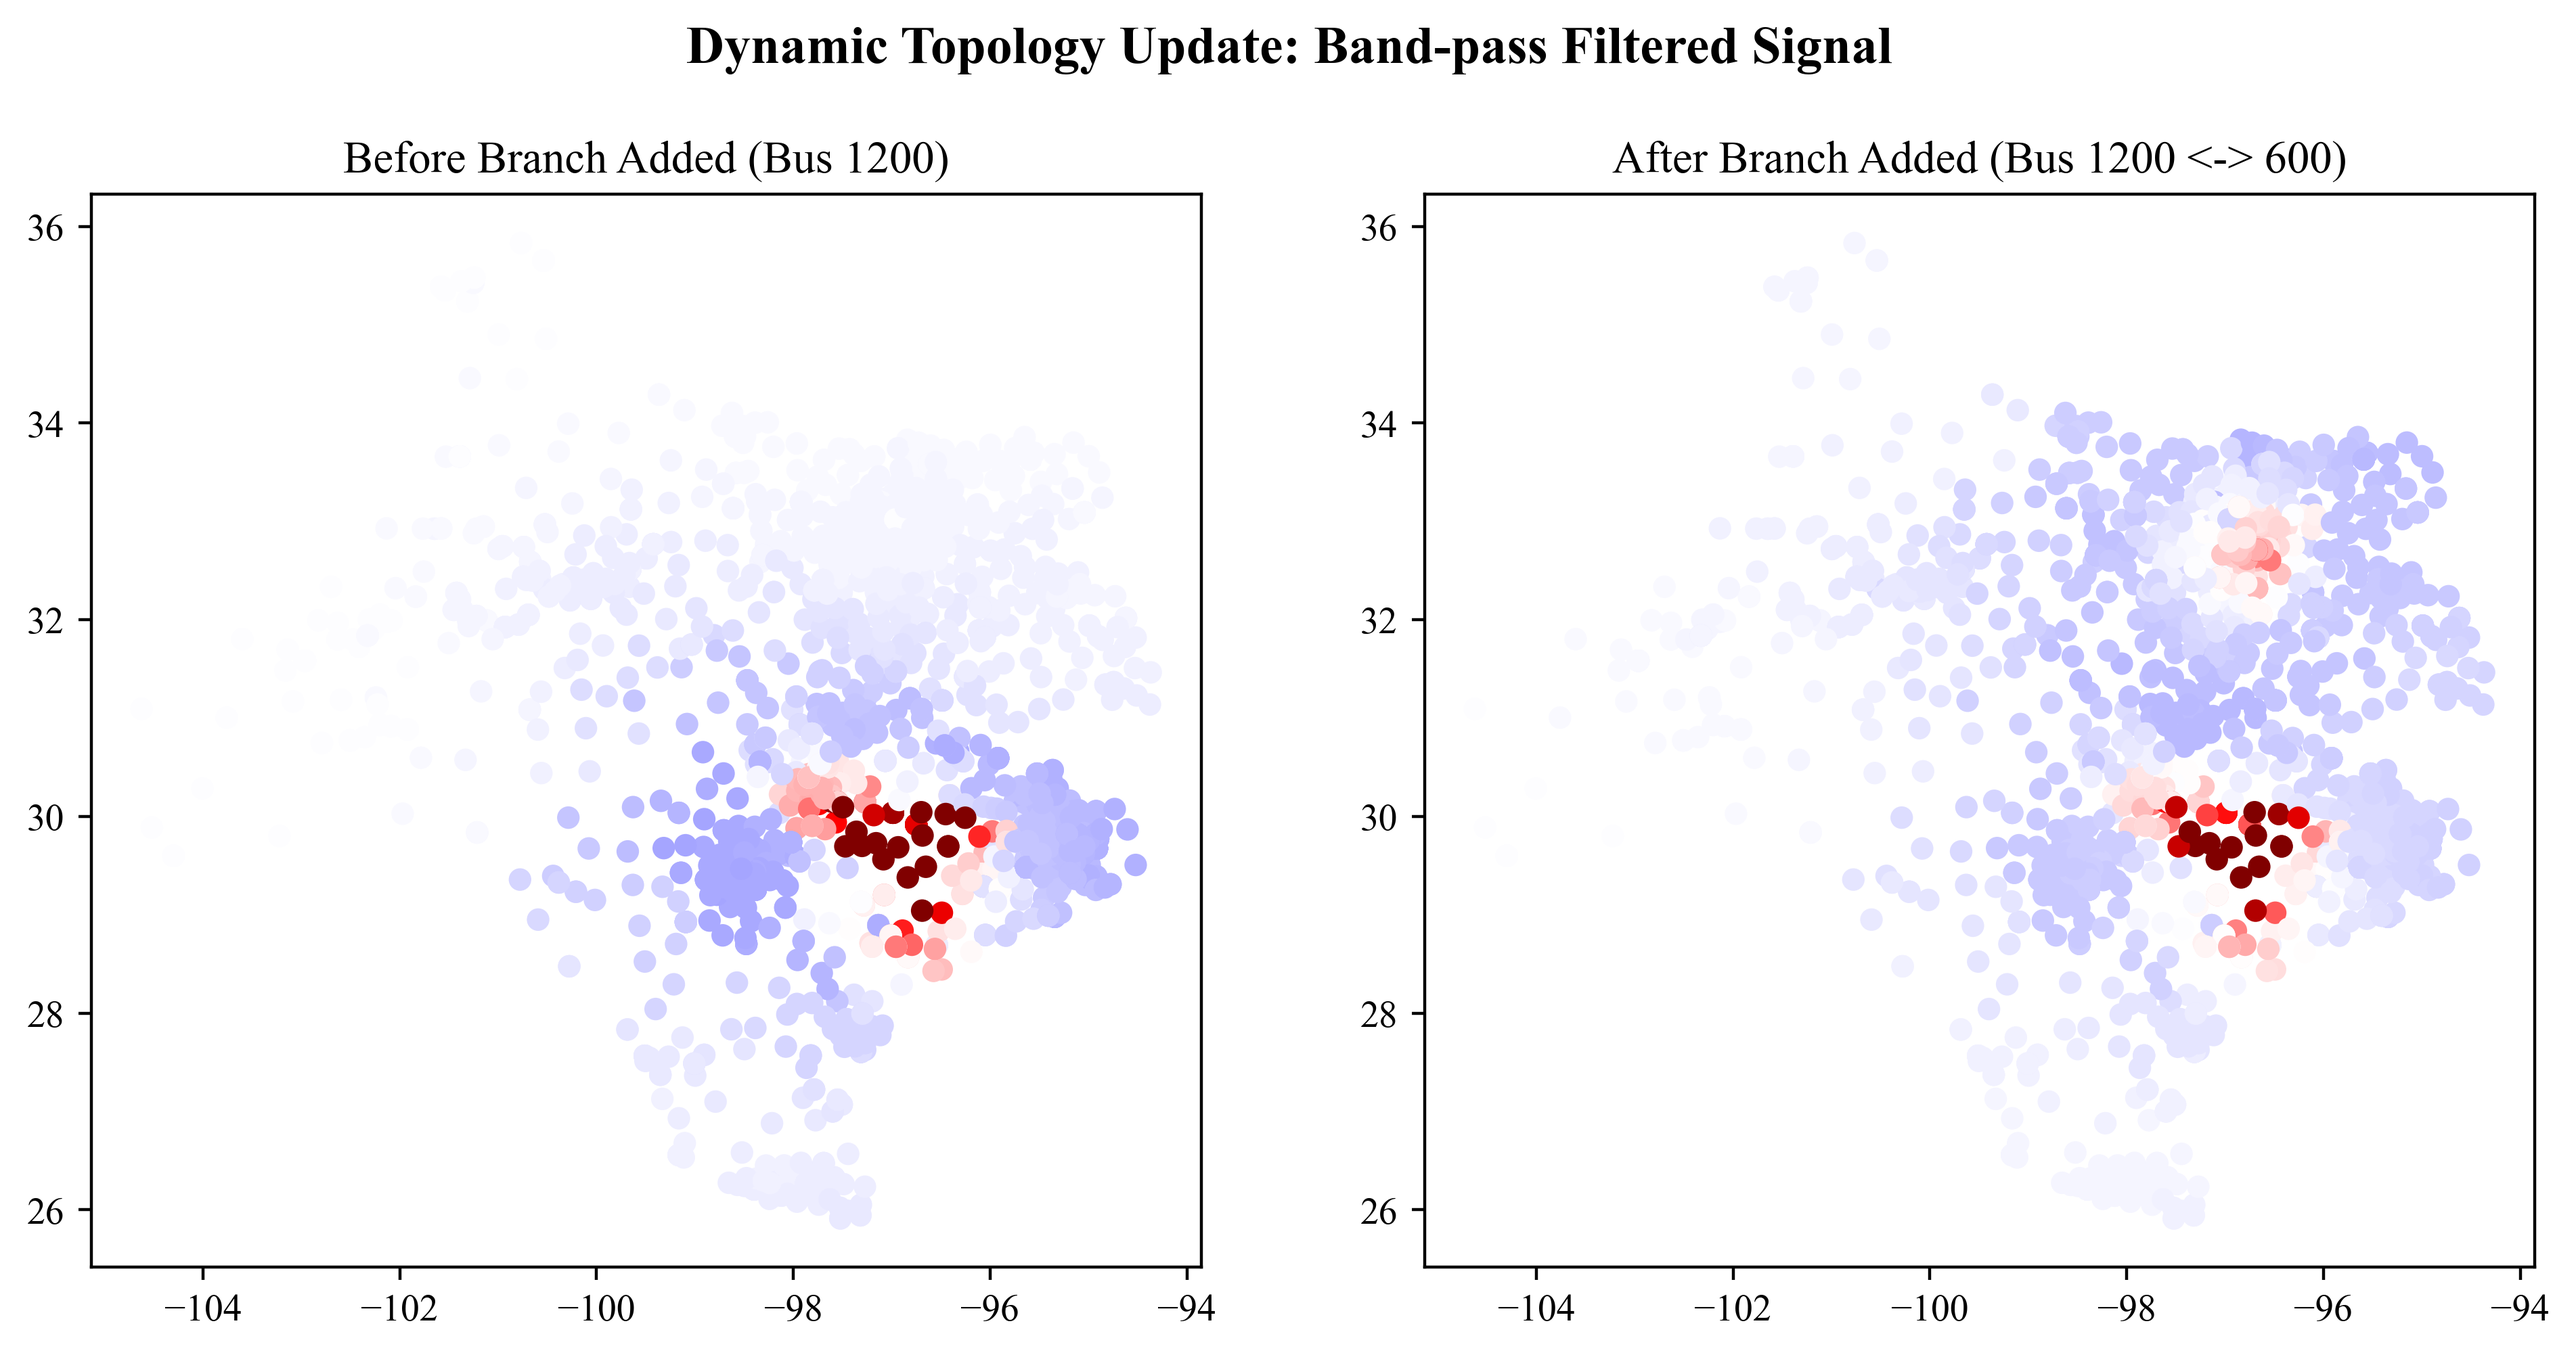
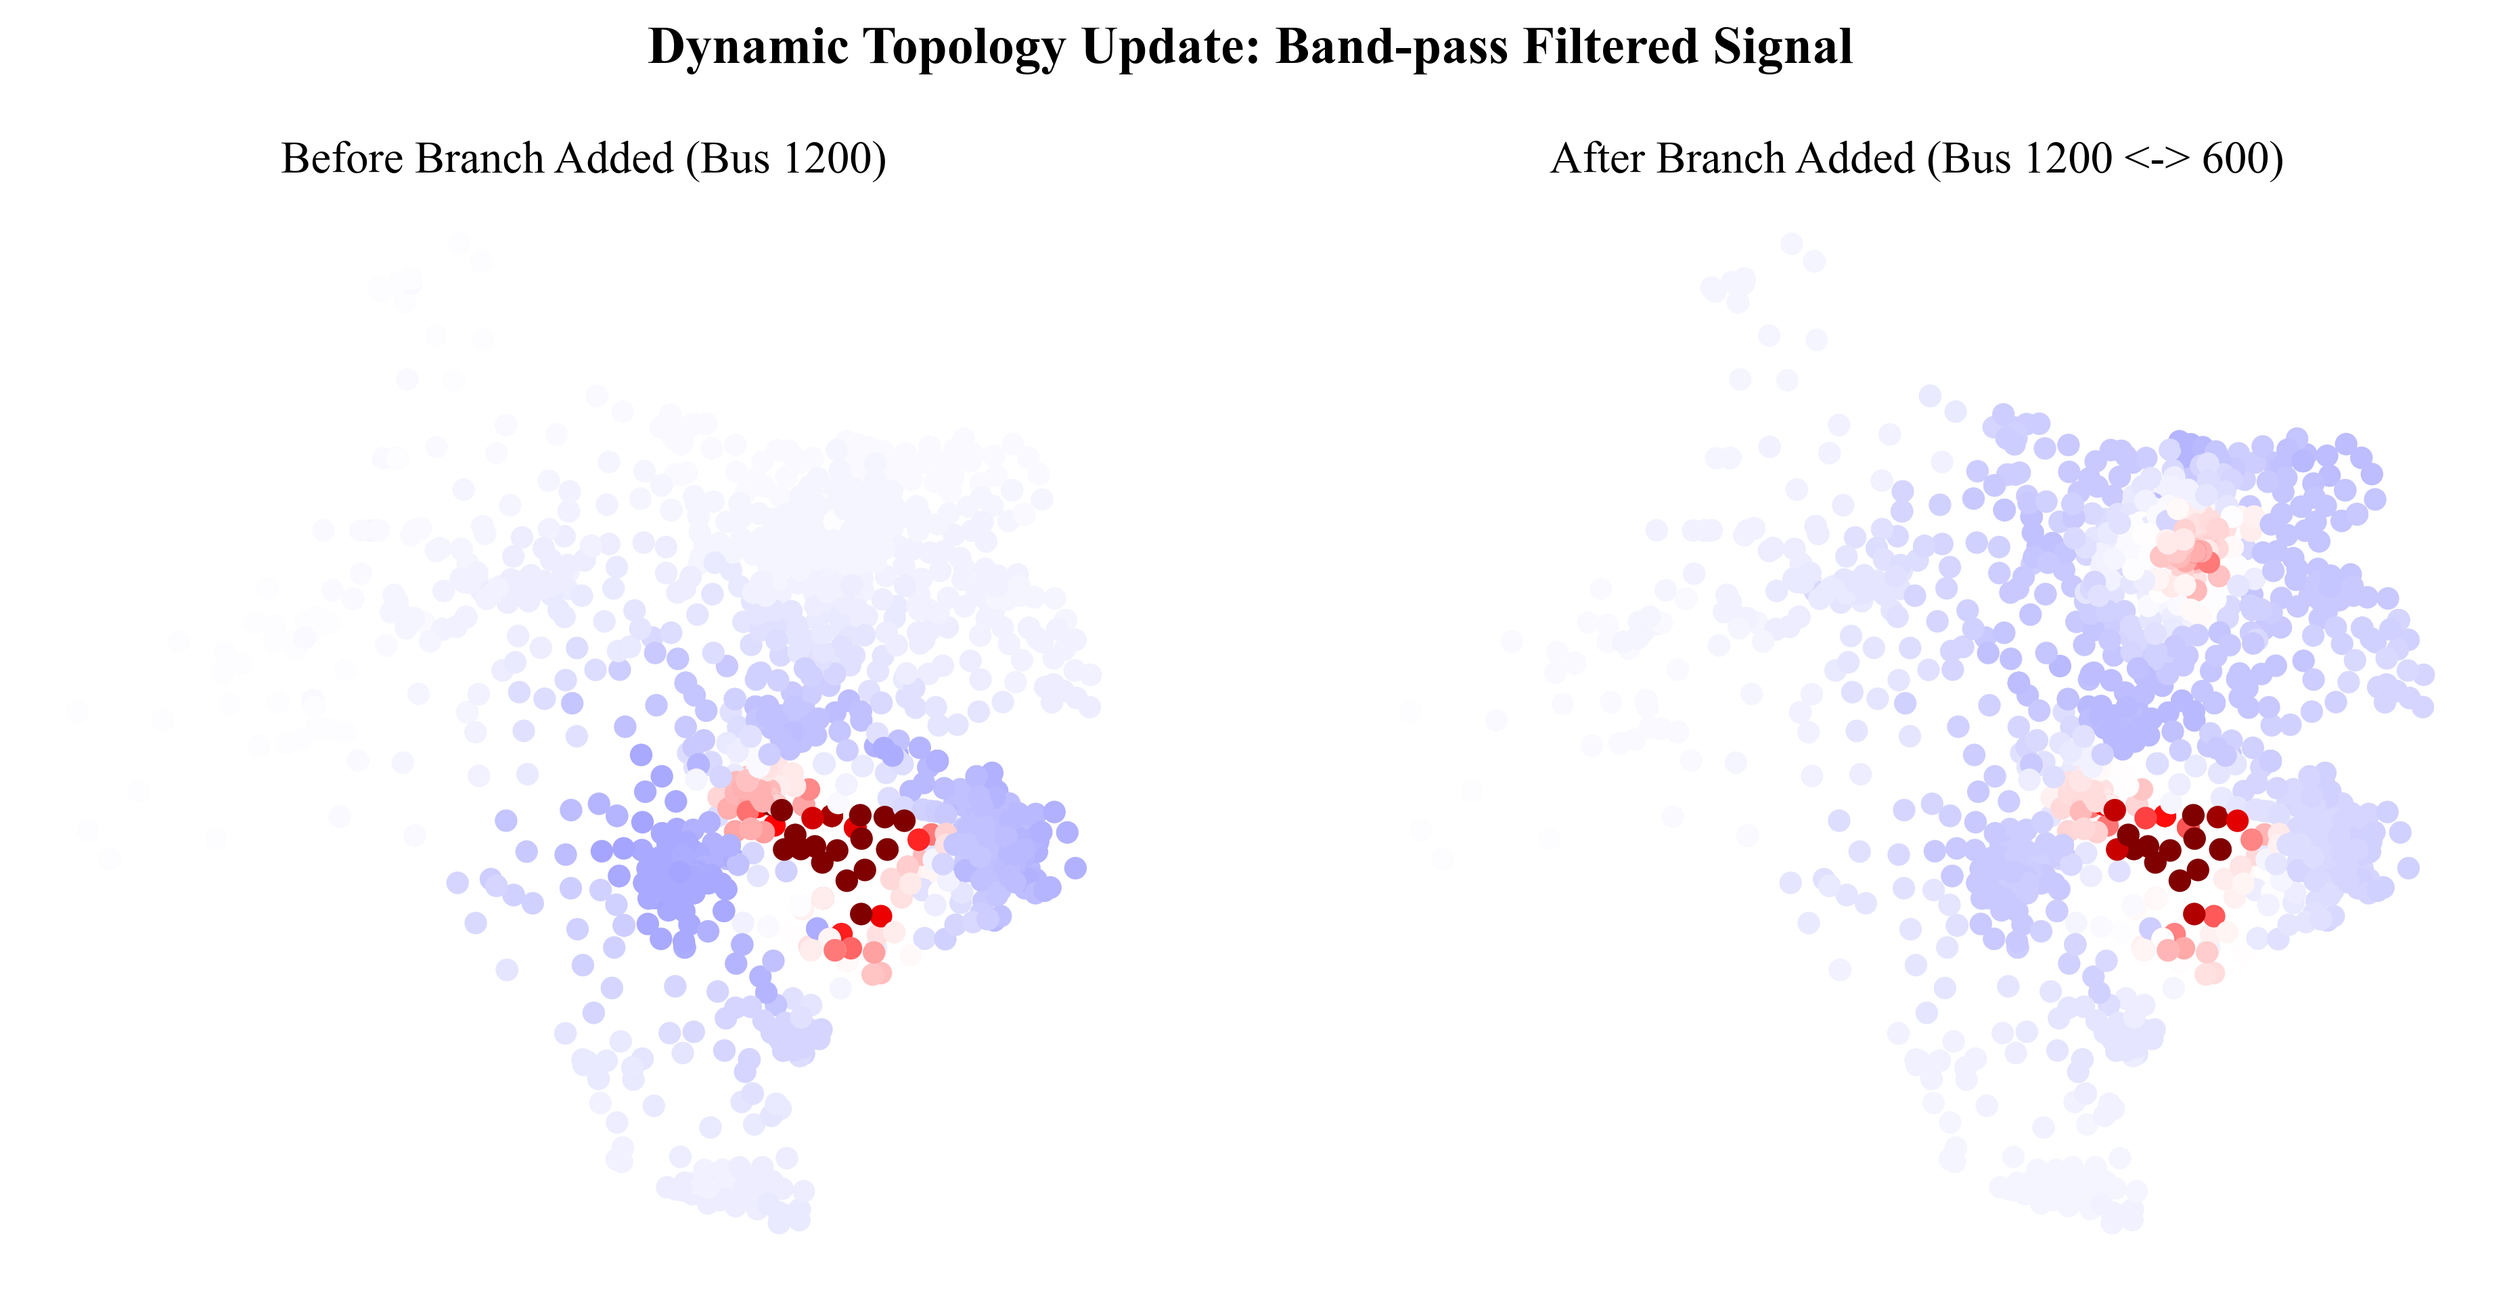
Correct Image Display and Format

diff --git a/examples/demo_dynamic_time.py b/examples/demo_dynamic_time.py
@@ -2,13 +2,11 @@ import os
 import matplotlib.pyplot as plt
 
 # DOC_START_CODE_EXCLUDE_IMPORTS
-
 from sgwt import Convolve, DyConvolve, impulse
 from sgwt import DELAY_USA as L
 import numpy as np
 import time 
 
-# DOC_START_CODE_EXCLUDE_IMPORTS
 # Impulse
 X  = impulse(L, n=1200)
 
@@ -31,28 +29,37 @@ with DyConvolve(L, poles) as conv:
         Y = conv.bandpass(X)
     T2 = time.time() - start
 
-# Set font to Times New Roman for a professional look
-plt.rcParams['font.family'] = 'serif'
-plt.rcParams['font.serif'] = ['Times New Roman'] + plt.rcParams['font.serif']
-
 # DOC_END_CODE_EXCLUDE_PLOT
+# Set font to Times New Roman for a professional look (already set above, but kept for clarity if code block was different)
+# plt.rcParams['font.family'] = 'serif'
+# plt.rcParams['font.serif'] = ['Times New Roman'] + plt.rcParams['font.serif']
+
 # Create a bar chart to visualize the performance comparison
-fig, ax = plt.subplots(figsize=(6, 4))
+fig, ax = plt.subplots(figsize=(9, 6)) # Increased figure size for better readability
 labels = ['Static (Convolve)', 'Dynamic (DyConvolve)']
 times_ms = [T1 * 1000, T2 * 1000]
-colors = ['skyblue', 'lightcoral']
+colors = ['#66c2a5', '#fc8d62'] # A more subtle color palette
 
-ax.bar(labels, times_ms, color=colors)
-ax.set_ylabel('Execution Time (ms)')
-ax.set_title('Performance Comparison: Static vs. Dynamic Convolution')
-ax.tick_params(axis='x', rotation=15)
-ax.grid(axis='y', linestyle='--', alpha=0.7)
+bars = ax.bar(labels, times_ms, color=colors, width=0.6) # Added width for better spacing
+ax.set_ylabel('Execution Time (ms)', fontsize=12)
+ax.set_title('Performance Comparison: Static vs. Dynamic Convolution', fontsize=14, pad=15) # Added padding to title
+ax.tick_params(axis='x', rotation=30, labelsize=11) # Increased rotation and labelsize
+ax.tick_params(axis='y', labelsize=11)
+ax.grid(axis='y', linestyle='--', alpha=0.6) # Slightly reduced alpha for grid
 
 # Add text labels on top of bars
-for i, v in enumerate(times_ms):
-    ax.text(i, v + max(times_ms)*0.05, f"{v:.2f} ms", ha='center', va='bottom', fontsize=10)
+for bar in bars:
+    yval = bar.get_height()
+    ax.text(bar.get_x() + bar.get_width()/2, yval + yval*0.03, # Adjusted y-offset
+            f"{yval:.2f} ms", ha='center', va='bottom', fontsize=10, color='black')
 
-plt.tight_layout()
+# Add a frame around the plot area
+ax.spines['top'].set_visible(False)
+ax.spines['right'].set_visible(False)
+ax.spines['left'].set_linewidth(0.5)
+ax.spines['bottom'].set_linewidth(0.5)
+
+plt.tight_layout(pad=2.0) # Increased padding for tight_layout
 
 # Save the figure for documentation
 script_dir = os.path.dirname(os.path.abspath(__file__))

diff --git a/examples/demo_vf.py b/examples/demo_vf.py
@@ -1,7 +1,8 @@
 import os
 import matplotlib.pyplot as plt
-from sgwt import DyConvolve, impulse, VFKern
 
+# DOC_START_CODE_EXCLUDE_IMPORTS
+from sgwt import DyConvolve, impulse, VFKern
 from sgwt import IMPEDANCE_EASTWEST as L
 from sgwt import COORD_EASTWEST as C
 from sgwt import MODIFIED_MORLET as Kjson
@@ -9,20 +10,15 @@ from sgwt import MODIFIED_MORLET as Kjson
 # Signal Input
 X = impulse(L, n=-1000)
 
-# TODO kernel scaling  #  g.scale_kern(...)
+# TODO kernel scaling  #  K.scale_kern(...)
 K = VFKern.from_dict(Kjson)
 K.Q /= 2000
 K.R /= 2000
-
 
 with DyConvolve(L, K) as g:
 
     Y = g.convolve(X)
     
-# Set font to Times New Roman for a professional look
-plt.rcParams['font.family'] = 'serif'
-plt.rcParams['font.serif'] = ['Times New Roman'] + plt.rcParams['font.serif']
-
 # DOC_END_CODE_EXCLUDE_PLOT
 from demo_plot import plot_signal
 plot_signal(Y[:,0,0], C, 'Spectral')

diff --git a/examples/demo_recon.py b/examples/demo_recon.py
@@ -2,11 +2,9 @@ import os
 import matplotlib.pyplot as plt
 
 # DOC_START_CODE_EXCLUDE_IMPORTS
-
 from sgwt import Convolve
 from sgwt import IMPEDANCE_WECC as L
 import numpy as np
-
 
 # Bus Index, atitude (Y), Longitude (X)
 MEASURMENTS = [
@@ -18,7 +16,6 @@ MEASURMENTS = [
     [33      ,-116.778   ,35.14 ],
     [187     ,-123.14    ,44.34 ]
 ]
-
 
 nbus = L.shape[0]
 X = np.zeros((nbus, 2)) # Signal, Sparse
@@ -43,10 +40,6 @@ with Convolve(L) as conv:
         dX = conv.lowpass(B, [s])
 
         Xh += s * dX[0]
-
-# Set font to Times New Roman for a professional look
-plt.rcParams['font.family'] = 'serif'
-plt.rcParams['font.serif'] = ['Times New Roman'] + plt.rcParams['font.serif']
 
 # DOC_END_CODE_EXCLUDE_PLOT
 plt.figure(figsize=(8, 6)) # Create a figure for this plot

diff --git a/examples/demo_dynamic_stream.py b/examples/demo_dynamic_stream.py
@@ -2,7 +2,6 @@ import os
 import matplotlib.pyplot as plt
 
 # DOC_START_CODE_EXCLUDE_IMPORTS
-
 import numpy as np
 from sgwt.dynamic import DyConvolve
 from sgwt import DELAY_USA as L
@@ -60,12 +59,6 @@ with DyConvolve(L, poles) as conv:
         
         if not event:
             print(f"[{t:04d}] STATUS | Stream processing active")
-
-print("\nStream processing complete.")
-
-# Set font to Times New Roman for a professional look
-plt.rcParams['font.family'] = 'serif'
-plt.rcParams['font.serif'] = ['Times New Roman'] + plt.rcParams['font.serif']
 
 # DOC_END_CODE_EXCLUDE_PLOT
 # Create a plot to visualize stream processing

diff --git a/examples/demo_dynamic_topology.py b/examples/demo_dynamic_topology.py
@@ -1,6 +1,7 @@
 import os
 import matplotlib.pyplot as plt
-import numpy as np
+
+# DOC_START_CODE_EXCLUDE_IMPORTS
 from sgwt import DyConvolve, impulse
 from sgwt import DELAY_TEXAS as L
 from sgwt import COORD_TEXAS as C
@@ -25,10 +26,6 @@ with DyConvolve(L, poles) as conv:
 
     # Post-Close Convolution
     Y_after = conv.bandpass(X)
-    
-# Set font to Times New Roman for a professional look
-plt.rcParams['font.family'] = 'serif'
-plt.rcParams['font.serif'] = ['Times New Roman'] + plt.rcParams['font.serif']
 
 # DOC_END_CODE_EXCLUDE_PLOT
 from demo_plot import plot_signal

diff --git a/examples/demo_filters_3.py b/examples/demo_filters_3.py
@@ -2,7 +2,6 @@ import os
 import matplotlib.pyplot as plt
 
 # DOC_START_CODE_EXCLUDE_IMPORTS
-
 from sgwt import Convolve, impulse
 from sgwt import DELAY_USA as L
 from sgwt import COORD_USA as C
@@ -19,10 +18,6 @@ with Convolve(L) as conv:
     BP = conv.bandpass(X, s)[0]
     BP = conv.bandpass(BP, s)[0]
     BP = conv.bandpass(BP, s)[0]
-
-# Set font to Times New Roman for a professional look
-plt.rcParams['font.family'] = 'serif'
-plt.rcParams['font.serif'] = ['Times New Roman'] + plt.rcParams['font.serif']
 
 # DOC_END_CODE_EXCLUDE_PLOT
 from demo_plot import plot_signal

diff --git a/examples/demo_plot.py b/examples/demo_plot.py
@@ -7,8 +7,6 @@ import matplotlib.cm as cm
 plt.rcParams['font.family'] = 'serif'
 plt.rcParams['font.serif'] = ['Times New Roman'] + plt.rcParams['font.serif']
 
-
-
 def plot_signal(f, C, cmap='Spectral'):
     '''
     Parameters
@@ -22,3 +20,5 @@ def plot_signal(f, C, cmap='Spectral'):
     norm = Normalize(-mx, mx)
     plt.scatter(L1, L2 , c=f, edgecolors='none', cmap=cm.get_cmap(cmap), norm=norm)
     plt.axis('scaled')   
+    ax = plt.gca()
+    ax.set_axis_off()

diff --git a/examples/demo_filters_1.py b/examples/demo_filters_1.py
@@ -26,10 +26,6 @@ with Convolve(L) as conv:
     BP = conv.bandpass(X, s)
     HP = conv.highpass(X, s)
 
-# Set font to Times New Roman for a professional look
-plt.rcParams['font.family'] = 'serif'
-plt.rcParams['font.serif'] = ['Times New Roman'] + plt.rcParams['font.serif']
-
 # DOC_END_CODE_EXCLUDE_PLOT
 # Assuming plot_signal creates and sets the current matplotlib figure
 from demo_plot import plot_signal

diff --git a/examples/demo_inpainting.py b/examples/demo_inpainting.py
@@ -60,8 +60,6 @@ with DyConvolve(L, poles=[1/SMOOTHING_SCALE]) as conv:
         if (i + 1) % 100 == 0:
             print(f"  Iteration {i+1}/{N_ITERATIONS}")
 
-print("Reconstruction complete.")
-
 # DOC_END_CODE_EXCLUDE_PLOT
 # 4. Visualize Results
 fig, (ax1, ax2, ax3) = plt.subplots(3, 1, figsize=(5, 8), sharex=True)

diff --git a/examples/demo_filters_2.py b/examples/demo_filters_2.py
@@ -1,7 +1,7 @@
 import os
 import matplotlib.pyplot as plt
-# DOC_START_CODE_EXCLUDE_IMPORTS
 
+# DOC_START_CODE_EXCLUDE_IMPORTS
 from sgwt import Convolve, impulse
 from sgwt import DELAY_EASTWEST as L
 from sgwt import COORD_EASTWEST as C

diff --git a/docs/static/demo_filters_1.rst b/docs/static/demo_filters_1.rst
@@ -1,6 +1,6 @@
 .. _demo_filters_1:
 
-Basic Filtering (Texas Grid)
+Impulse Smoothing
 ============================
 
 Demonstrates low-pass, band-pass, and high-pass filtering on the synthetic Texas grid (~2k nodes).
